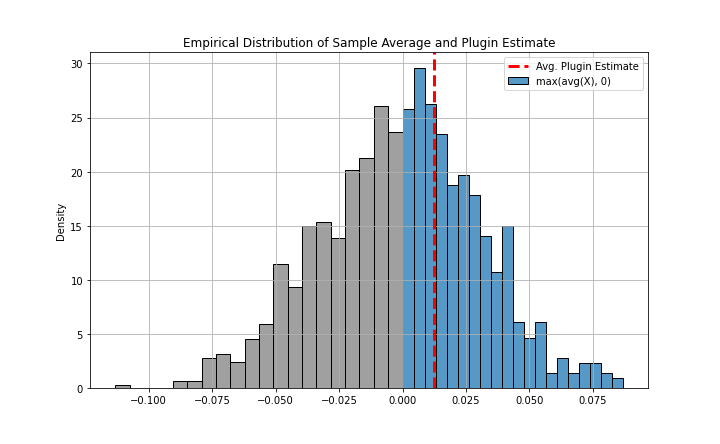
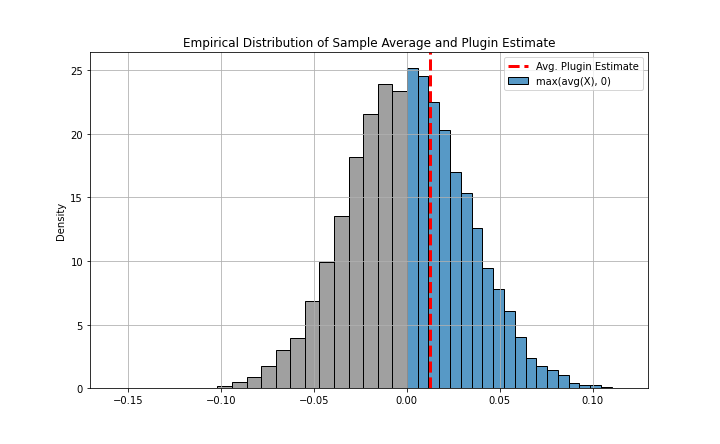
Sync (Incomplete pricing DGP)

diff --git a/core/pricing_estimators.py b/core/pricing_estimators.py
@@ -6,7 +6,7 @@ import numpy as np
 
 from scipy.stats import ks_2samp
 from scipy.optimize import minimize, OptimizeResult
-from sklearn.linear_model import LogisticRegression
+from statsmodels.discrete.discrete_model import Logit, BinaryResultsWrapper
 
 
 from core.estimators import BaseEstimator
@@ -19,62 +19,76 @@ class PricingPlugIn(BaseEstimator):
 
         # placeholders
         self.util_params = np.zeros((2 * self.cov_dim + 1, 1))  # (2 * cov_dim + 1, 1)
+        self.model = None  # fitted model
         self.opt_result = None
 
     def fit(self, covariates: np.ndarray, prices: np.ndarray, outcomes: np.ndarray):
         # fit the utility function
-        model = self.logistic_regression(covariates, prices, outcomes)
+        self.model = self.logistic_regression(covariates, prices, outcomes)
 
-        self.util_params[0] = model.intercept_  # (1, )
-        self.util_params[1:] = model.coef_.T  # (2 * cov_dim, 1)
+        # assign utility parameters
+        self.util_params = self.model.params.reshape(-1, 1)  # (2 * cov_dim + 1, 1)
 
         return self
     
     @staticmethod
     def logistic_regression(
         covariates: np.ndarray, prices: np.ndarray, outcomes: np.ndarray
-    ) -> LogisticRegression:
-        exog = np.concatenate([covariates, prices * covariates], axis=1)
-        model = LogisticRegression().fit(exog, outcomes.flatten())
+    ) -> BinaryResultsWrapper:
+        # prepare exogenous variables
+        exog = np.concatenate([
+            np.ones((covariates.shape[0], 1)),
+            covariates, prices * covariates
+        ], axis=1)
+
+        # fit model
+        model = Logit(endog=outcomes, exog=exog).fit()
 
         return model
 
     def purchase_prob(
-            self, covariates: np.ndarray, price: float, 
-            util_params: np.ndarray = None
+        self, covariates: np.ndarray, price: float, util_params: np.ndarray = None
     ) -> np.ndarray:
         """ 
         Params:
         -------
         covariates: np.ndarray, (n_obs, cov_dim)
         price: float, price
+
+        Returns:
+        -------
+        purchase_prob: np.ndarray, (n_obs, )
         """
-        if util_params is None:
-            util_params = self.util_params
-        # variables: (sample_size, 2 * cov_dim + 1)
+        # check if util_params is None
+        util_params = self.util_params if util_params is None else util_params
+        
+        # concatenate variables: (sample_size, 2 * cov_dim + 1)
         var_arr = np.concatenate([np.ones((covariates.shape[0], 1)), covariates, price * covariates], axis=1)
+
         logit = np.exp(var_arr @ util_params)
+
         return logit / (1 + logit)
     
     def objective_func(
-        self, covariates: np.ndarray, price: float, delta: float = 0.99, 
-        util_params: np.ndarray = None
+        self, covariates: np.ndarray, price: float, util_params: np.ndarray = None
     ) -> float:
+        """
+        Given individual characteristics, price, and demand modle parameters, return the objective value
+        """
         purchase_prob = self.purchase_prob(
             covariates=covariates, price=price, util_params=util_params
-        )
-        return np.mean(price * purchase_prob / (1 - delta * purchase_prob))
+        )  # (n_obs, )
+        return np.mean(price * purchase_prob)
     
     def optimize(
-        self, covariates: np.ndarray, delta: float = 0.99, 
-        util_params: np.ndarray = None
+        self, covariates: np.ndarray, util_params: np.ndarray = None
     ) -> OptimizeResult:
         """ 
         
         Params: 
         -------
         covariates: np.ndarray, (n_obs, cov_dim)
-        delta: float, discount factor
+        util_params: np.ndarray, (2 * cov_dim + 1, 1)
 
         Returns:
         -------
@@ -82,8 +96,7 @@ class PricingPlugIn(BaseEstimator):
         """
         self.opt_result = minimize(
             lambda x: -self.objective_func(
-                covariates=covariates, price=x, delta=delta, 
-                util_params=util_params
+                covariates=covariates, price=x, util_params=util_params
             ), 
             x0=1, method='L-BFGS-B',
         )

diff --git a/core/dgp.py b/core/dgp.py
@@ -68,11 +68,37 @@ class DGP1:
         return np.random.uniform(-3, 3, sample_size)
     
 
-class PersonalizedPricingDGP(object):
-    def __init__(self, cov_dim: int = 1):
+class PersonalizedPricingDGP(object, ):
+    """
+    Data Generating Process for personalized pricing
+    """
+    def __init__(
+        self, cov_dim: int = 1, util_map_lb: float = 0, util_map_ub: float = 0.1, 
+        price_map_lb: float = -5, price_map_ub: float = -1, 
+        char_mean: float = 0, char_std: float = 1, **kwargs
+    ):
+        """ 
+        Params: 
+        -------
+        cov_dim: int, number of covariates
+        util_map_lb: float, lower bound of the utility map
+        util_map_ub: float, upper bound of the utility map
+        price_map_lb: float, lower bound of the price map
+        price_map_ub: float, upper bound of the price map
+        char_mean: float, mean of the individual characteristics
+        char_std: float, standard deviation of the individual characteristics
+        """
+        # attributes
         self.cov_dim = cov_dim
-        self.util_const_map = np.random.uniform(0, 1, size=(cov_dim, 1))  # (cov_dim, 1)
-        self.util_price_map = np.random.uniform(-0.1, 0, size=(cov_dim, 1))  # (cov_dim, 1)
+        self.util_map_lb = util_map_lb
+        self.util_map_ub = util_map_ub
+        self.price_map_lb = price_map_lb
+        self.price_map_ub = price_map_ub
+        self.char_mean = char_mean
+        self.char_std = char_std
+
+        self.util_const_map = np.random.uniform(self.util_map_lb, self.util_map_ub, size=(cov_dim, 1))  # (cov_dim, 1)
+        self.util_price_map = np.random.uniform(self.price_map_lb, self.price_map_ub, size=(cov_dim, 1))  # (cov_dim, 1)
 
     def generate_training_data(
         self, sample_size: int, price_lb: float, price_ub: float, price_diff: float, seed=None
@@ -97,7 +123,7 @@ class PersonalizedPricingDGP(object):
         """
         # generate data
         # individual characteristics
-        X_arr = self.__generate_individual_characteristics(sample_size)  # (sample_size, cov_dim)
+        X_arr = self.sample_individuals(sample_size)  # (sample_size, cov_dim)
         
         # price (treaments)
         price_arr = np.random.choice(np.arange(price_lb, price_ub, price_diff), sample_size).reshape(-1, 1)  # (sample_size, 1)
@@ -106,15 +132,33 @@ class PersonalizedPricingDGP(object):
         err_arr = np.random.gumbel(loc=0, scale=1, size=(sample_size, 1))  # (sample_size, 1)
 
         # utility: (sample_size, 1)
-        util_arr = X_arr @ self.util_const_map + X_arr @ self.util_price_map * price_arr + err_arr
+        util_arr = self.calculate_utility(X_arr, price_arr, err_arr)
 
         # demand: (sample_size, 1), buy if utility > 0, else don't buy.
         demand_arr = (util_arr > 0).astype(int)
 
         return X_arr, price_arr, demand_arr
     
-    def generate_testing_data(self, sample_size: int) -> np.ndarray:        
-        return self.__generate_individual_characteristics(sample_size)  # (sample_size, )
+    @property
+    def true_util_params(self) -> np.ndarray:
+        return np.concatenate([self.util_const_map, self.util_price_map], axis=0)
+    
+    def sample_individuals(self, sample_size: int) -> np.ndarray:
+        return np.random.normal(loc=self.char_mean, scale=self.char_std, size=(sample_size, self.cov_dim))
+    
+    def calculate_utility(self, X: np.ndarray, prices: np.ndarray, errors: np.ndarray) -> np.ndarray:
+        """ 
+        Calculate utility: u = alpha'x + beta'x * price + error
 
-    def __generate_individual_characteristics(self, sample_size: int) -> np.ndarray:
-        return np.random.normal(loc=1, scale=0.1, size=(sample_size, self.cov_dim))
+        Params:
+        -------
+        X: np.ndarray, (sample_size, cov_dim)
+        prices: np.ndarray, (sample_size, 1)
+        errors: np.ndarray, (sample_size, 1)
+
+        Returns:
+        -------
+        utility: np.ndarray, (sample_size, 1)
+        """
+        # util_const_map: (cov_dim, 1), util_price_map: (cov_dim, 1)
+        return X @ self.util_const_map + X @ self.util_price_map * prices + errors
